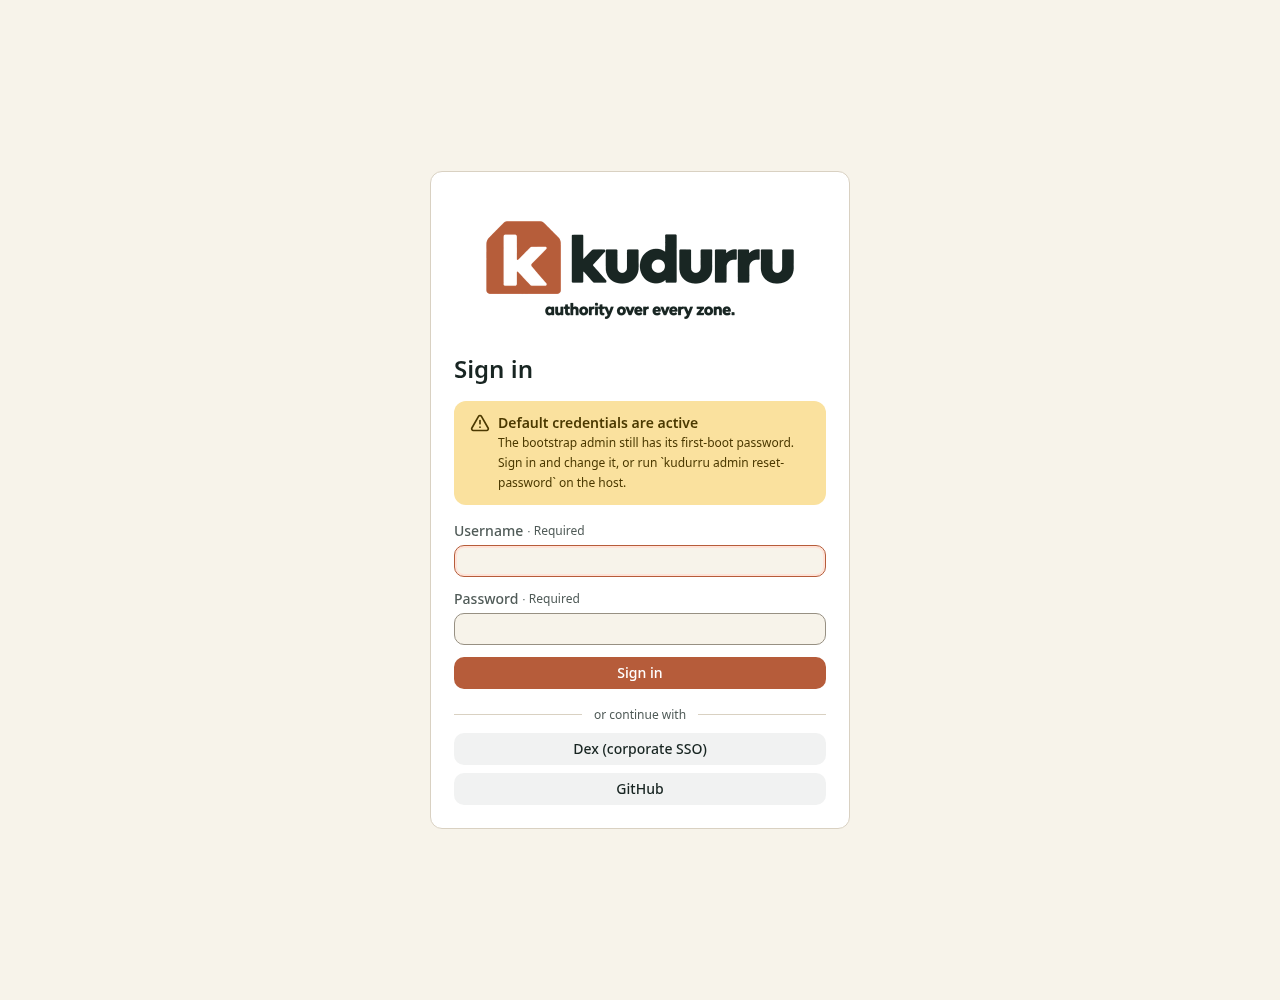
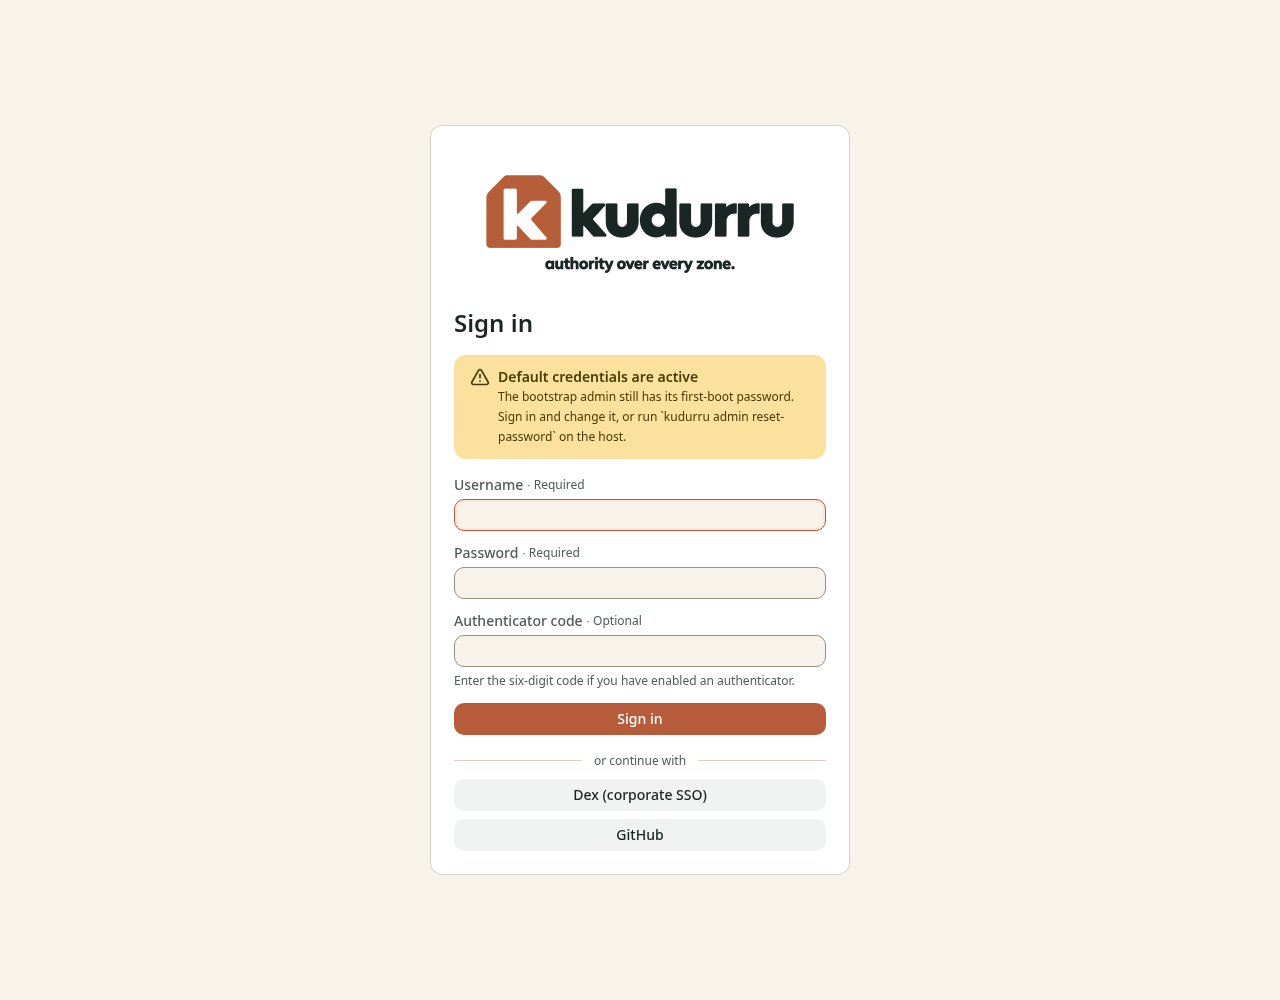
docs(guide): show the authenticator field on the sign-in page
The sign-in page has an optional Authenticator code field since local
accounts can use an authenticator. The sign-in steps of the administrator
guide and of the first steps did not mention it, and the screenshot
showed the page without it. Both procedures now tell the reader to keep
the field empty on a new node, and the screenshot is retaken with the
repository's script.

Changed region(s): [[0.3438, 0.155, 0.6562, 0.558], [0.3438, 0.589, 0.6562, 0.837]]

diff --git a/docs/guide/admin/02-install-and-sign-in.md b/docs/guide/admin/02-install-and-sign-in.md
@@ -118,7 +118,9 @@ container. After each change of the file, restart the container with
    See the note below.
 3. Enter `admin` in **Username**.
 4. Enter the content of `secrets/admin_password` in **Password**.
-5. Click **Sign in**.
+5. Keep **Authenticator code** empty. You use it only after you set up an
+   authenticator ([Chapter 9](09-people-and-tokens.md#use-an-authenticator)).
+6. Click **Sign in**.
 
 NOTE: kudurru makes a self-signed certificate at the first start. Browsers
 warn about it. To remove the warning, set `listeners.api.tls.certFile` and
@@ -127,7 +129,7 @@ TLS if a reverse proxy in front of kudurru terminates it.
 
 Figure 1 shows the sign-in page.
 
-![The sign-in page with the kudurru logo, a yellow message about default credentials, the fields Username and Password, and two buttons for single sign-on.](../images/signin.png)
+![The sign-in page with the kudurru logo, a yellow message about default credentials, the fields Username, Password and Authenticator code, and two buttons for single sign-on.](../images/signin.png)
 
 *Figure 1. The sign-in page.*
 

diff --git a/docs/guide/first-steps/sign-in.md b/docs/guide/first-steps/sign-in.md
@@ -11,9 +11,10 @@
 2. Check that the address belongs to your node before you accept its certificate.
 3. Enter `admin` in **Username**.
 4. Enter the password in **Password**.
-5. Click **Sign in**.
+5. Keep **Authenticator code** empty on a new node.
+6. Click **Sign in**.
 
-![The sign-in page with Username and Password fields and the Sign in button.](../images/signin.png)
+![The sign-in page with Username, Password and Authenticator code fields and the Sign in button.](../images/signin.png)
 
 *Figure 1. Sign in with the local account.*
 
